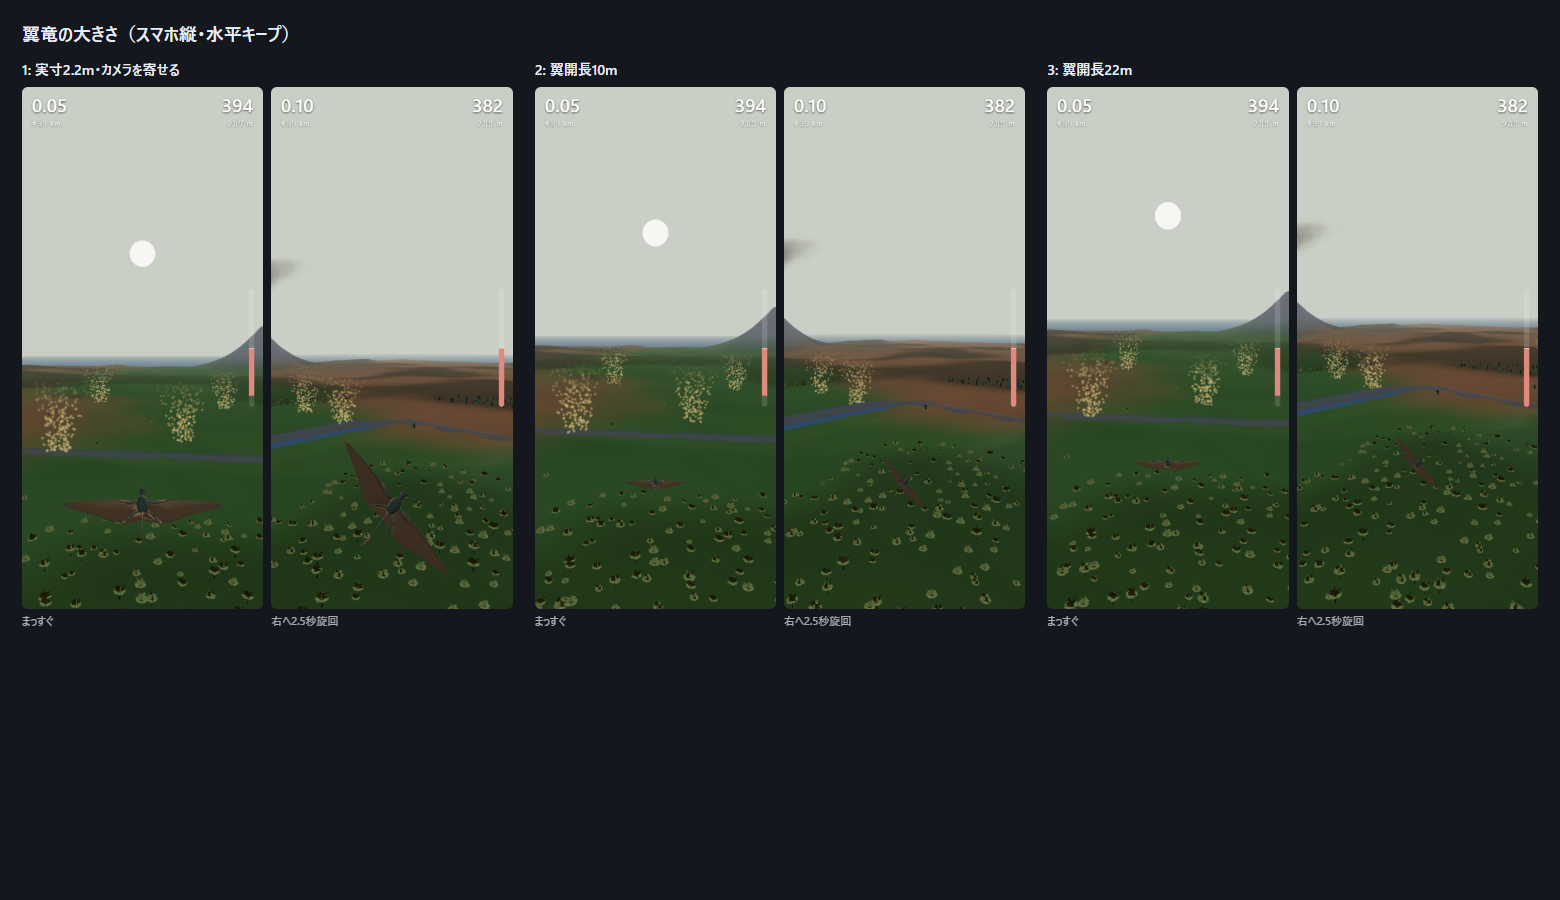
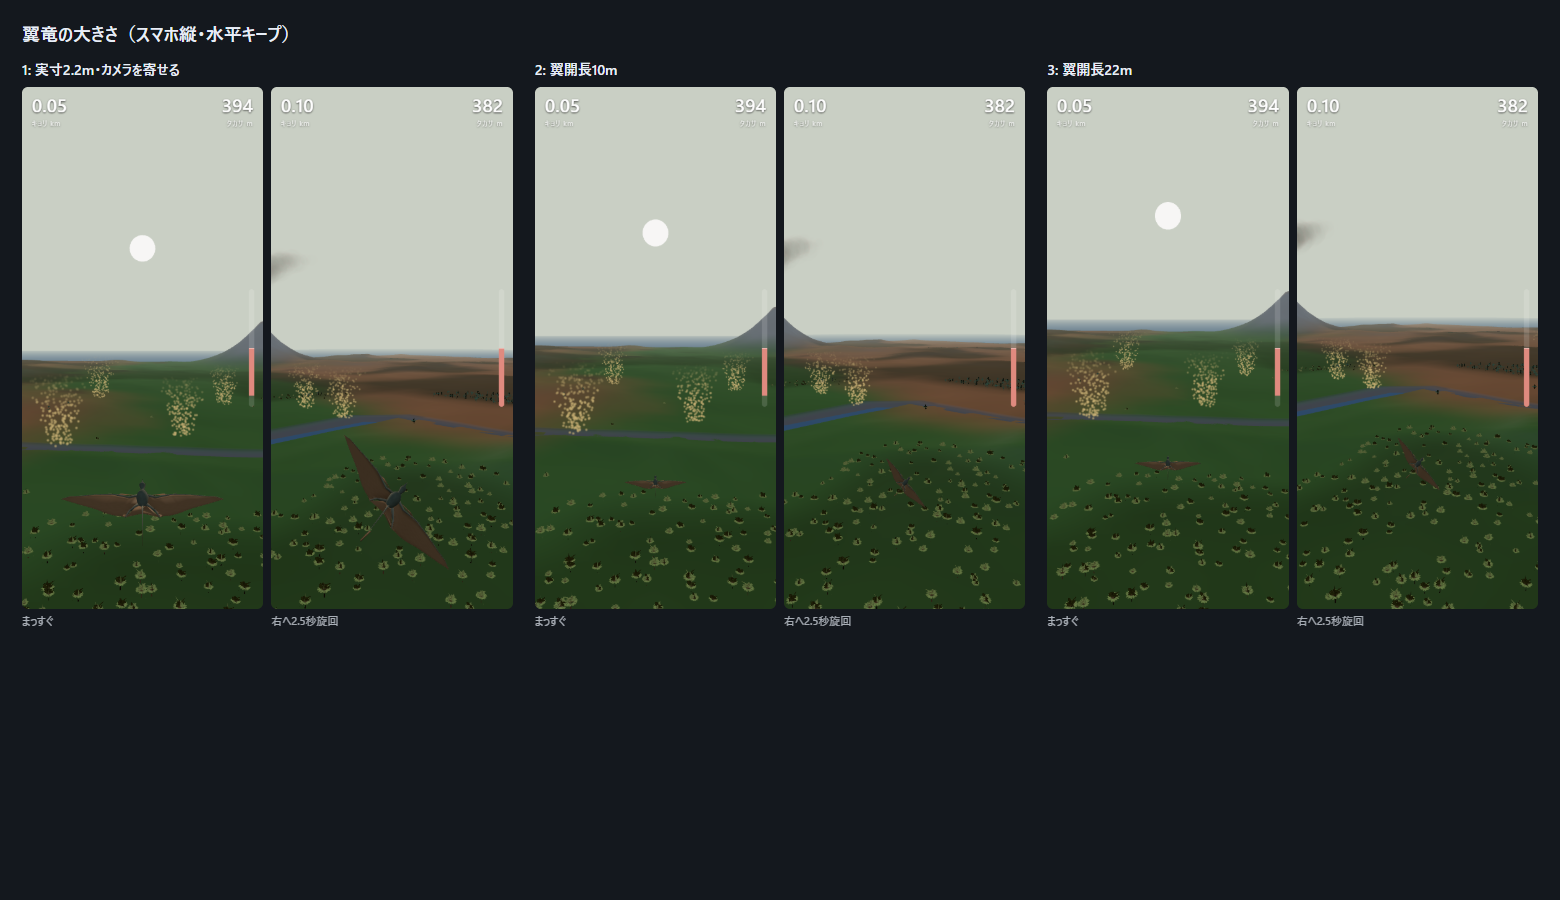
いきものの大きさを3.5倍に統一し、他の翼竜を飛ばした
所長「この世界のいきものは3.5倍に。自分も3.5倍にしてカメラ同じ見え方に」。

- CREATURE_SCALE=3.5 を world.js に置き、ステゴサウルスと翼竜で共有
- 自分の翼竜も3.5倍(翼開長7.7m)、カメラの距離も3.5倍(後ろ17.6m)。画面の翼の幅は237pxで変わらない
- 他の翼竜: 同じRH02を使い回し(追加の読み込み0・1体6,420三角形・最大10体)、
  強い上昇気流(6.5m/s以上)の中を旋回して雲底まで上がる。「回っている=上がる空気」の手がかり
- tools/check-flyers.mjs を追加(上昇気流の中にいるか・地面より上か・自分の見え方が変わっていないか)

diff --git a/src/scene.js b/src/scene.js
@@ -1,7 +1,7 @@
 import * as THREE from 'three';
 import { GLTFLoader } from 'three/examples/jsm/loaders/GLTFLoader.js';
 import { mergeGeometries } from 'three/examples/jsm/utils/BufferGeometryUtils.js';
-import { TUNE, VEG, Vegetation, HERD, Herds } from './world.js';
+import { TUNE, VEG, Vegetation, HERD, Herds, FLOCK, Flock } from './world.js';
 import { clone as cloneSkinned } from 'three/examples/jsm/utils/SkeletonUtils.js';
 
 // three.jsは右手系で、+X は画面の左に出る。
@@ -18,7 +18,7 @@ export const TRAMPLE = { radius: 150, strength: 0.85 };   // 700mまで近づか
 // 翼竜の見せる大きさ。RH02は実寸で翼開長2.2m。飛び方の計算は変えず、見た目とカメラの距離だけ変える
 //   scale: モデルの拡大率 / cam: カメラの距離の倍率
 export const SIZES = {
-  1: { name: '実寸2.2m・カメラを寄せる', scale: 1.0, cam: 0.042 },  // 所長が選んだ距離: 後ろ約5m(18m→10m→6m→5m)
+  1: { name: 'いきもの3.5倍',  scale: 3.5, cam: 0.147 },  // 翼開長7.7m。カメラも3.5倍(後ろ約17.6m)で、画面の見え方は同じ
   2: { name: '翼開長10m',               scale: 4.6, cam: 0.5 },
   3: { name: '翼開長22m(灰色の箱と同じ)', scale: 10,  cam: 1.0 },
 };
@@ -446,6 +446,51 @@ class Forest {
   }
 }
 
+// 他の翼竜。自分と同じモデルを使い回す(追加の読み込みなし)
+class Flyers {
+  constructor(terrain, field, scene) {
+    this.flock = new Flock(terrain, field); this.scene = scene;
+    this.proto = null; this.clip = null; this.pool = []; this.byId = new Map(); this.ready = false;
+  }
+  setModel(gltfScene, clips) {
+    this.proto = gltfScene; this.clip = clips.Glide_Loop; this.ready = true;
+  }
+  make() {
+    const group = new THREE.Group();
+    const model = cloneSkinned(this.proto);
+    model.rotation.y = Math.PI;                 // RH02は機首が-Z
+    model.position.y = -0.35 * FLOCK.scale;
+    model.scale.setScalar(FLOCK.scale);
+    model.traverse(o => { if (o.isMesh) o.frustumCulled = false; });
+    group.add(model);
+    const mixer = new THREE.AnimationMixer(model);
+    const act = mixer.clipAction(this.clip);
+    act.time = Math.random() * this.clip.duration;             // 羽ばたきをそろえない
+    act.play();
+    this.scene.add(group);
+    return { group, model, mixer, bird: null };
+  }
+  update(px, py, dt, time) {
+    if (!this.ready) return;
+    const list = this.flock.near(px, py, time);
+    const keep = new Set(list.map(b => b.id));
+    for (const e of this.pool) if (e.bird && !keep.has(e.bird.id)) { this.byId.delete(e.bird.id); e.bird = null; e.group.visible = false; }
+    for (const b of list) {
+      let e = this.byId.get(b.id);
+      if (!e) {
+        e = this.pool.find(p => !p.bird) || (this.pool.push(this.make()), this.pool[this.pool.length - 1]);
+        e.bird = b; this.byId.set(b.id, e);
+      }
+      e.bird = b;
+      e.group.visible = true;
+      e.group.position.set(SX * b.x, b.z, b.y);
+      e.group.rotation.set(0, -b.head, b.bank, 'YXZ');
+      e.mixer.update(dt);
+    }
+  }
+  count() { return this.pool.filter(p => p.bird).length; }
+}
+
 // ステゴサウルス(Astraのリグ版を tools/export-stego.py で書き出したもの)。近い個体だけ骨つきで描く
 class Stegos {
   constructor(terrain, scene) {
@@ -572,6 +617,7 @@ export class View {
     this.mixer = null; this.model = null; this.modelReady = false;
     this.forest = new Forest(terrain, this.scene);
     this.stegos = new Stegos(terrain, this.scene);
+    this.flyers = new Flyers(terrain, field, this.scene);
     this.plumes = new Plumes(terrain);
     this.scene.add(this.plumes.points);
     this.fog = new THREE.FogExp2(0xc9cfc4, 0.00009);   // 暖かく湿った霞
@@ -617,6 +663,7 @@ export class View {
           this.act.idle.reset().play();
         }
       });
+      this.flyers.setModel(m, this.clips);     // 同じモデルを他の翼竜にも使う
       this.modelReady = true;
     }, undefined, err => { console.error('翼竜の読み込みに失敗。灰色の箱のまま飛ぶ', err); });
   }
@@ -674,6 +721,7 @@ export class View {
     this.forest.update(g.x, g.y);
     this.plumes.update(g.x, g.y, dt);
     this.stegos.update(g.x, g.y, dt);
+    this.flyers.update(g.x, g.y, dt, g.time);
     this.dust.update(g.x, g.y, dt, sun);
     this.clouds.update(g.x, g.y, sun);
     // ---- 着地 ----

diff --git a/src/world.js b/src/world.js
@@ -297,6 +297,9 @@ export class Vegetation {
   }
 }
 
+// この世界のいきものの見せる大きさ。実寸だと飛行高度から数ピクセルにしかならないので、全部同じ倍率で大きくする
+export const CREATURE_SCALE = 3.5;
+
 // ---------- ステゴサウルスの群れ ----------
 // 見た目のためだけの生き物で、飛び方には影響しない。群れの場所は区画ごとに種つきで決まる。
 export const HERD = {
@@ -304,7 +307,7 @@ export const HERD = {
   chance: 0.9,        // 区画に群れがいる確率
   min: 5, max: 10,    // 群れの頭数(小さい群れは上空から見つけられなかった)
   spread: 95,         // 群れの広がり [m]
-  scale: 3.5,         // 見せる大きさ(全長7m -> 24.5m)。2.5倍でも350m先で25pxしかなく見つけられなかった
+  scale: CREATURE_SCALE,   // この世界のいきものは全部3.5倍(所長 2026-09-18)。全長7m -> 24.5m
   walk: 0.21,         // 歩きの動き1回ぶんの前進の速さ [m/s](AstraのWalkクリップの値)
   timeScale: 3.0,     // 歩きの動きの再生速度。前進の速さも同じ倍率にする(足が滑らないように)
   active: 1800,       // この距離の群れだけ動かす [m]
@@ -395,5 +398,46 @@ export class Herds {
       if (d <= rad) out.push({ a, d });
     }
     return out.sort((p, q) => p.d - q.d);
+  }
+}
+
+// ---------- 他の翼竜 ----------
+// 上昇気流の中を旋回する。実際の鳥と同じで「あそこで回っている = 上がる空気がある」の手がかりになる
+export const FLOCK = {
+  scale: CREATURE_SCALE,
+  show: 2400,         // この距離の上昇気流に出す [m]
+  minW: 6.5,          // これより強い上昇気流にだけ集まる [m/s]
+  radius: 55,         // 旋回の半径 [m]
+  turn: 0.22,         // 旋回の速さ [rad/s]
+  max: 10,            // 同時に出す数
+};
+
+export class Flock {
+  constructor(terrain, field) { this.t = terrain; this.f = field; }
+  // 時刻 time における、近くの翼竜たちの位置・向き・傾き
+  near(px, py, time) {
+    const out = [];
+    for (const c of this.f.around(px, py, FLOCK.show)) {
+      if (c.W < FLOCK.minW) continue;
+      const d = Math.hypot(c.x - px, c.y - py);
+      if (d > FLOCK.show) continue;
+      const seed = Math.abs(Math.floor(c.x * 7.31 + c.y * 3.17));
+      const n = 1 + (seed % 3);                                  // 1〜3羽
+      for (let i = 0; i < n; i++) {
+        const phase = ((seed * (i + 1) * 9301 + 49297) % 233280) / 233280;
+        const ang = time * FLOCK.turn * (1 + 0.15 * phase) + phase * Math.PI * 2;
+        const r = FLOCK.radius * (0.75 + 0.5 * phase);
+        // 上昇気流の中を、下から雲底へ上がっては戻るのを繰り返す
+        const u = (time * 0.012 + phase) % 1;
+        const z = c.gz + 70 + (c.top - c.gz - 70) * u;
+        out.push({
+          id: `${Math.round(c.x)},${Math.round(c.y)}:${i}`,
+          x: c.x + Math.cos(ang) * r, y: c.y + Math.sin(ang) * r, z,
+          head: -ang + Math.PI / 2,                              // 円の接線方向へ進む
+          bank: 0.5, d,
+        });
+      }
+    }
+    return out.sort((a, b) => a.d - b.d).slice(0, FLOCK.max);
   }
 }

diff --git a/src/main.js b/src/main.js
@@ -159,6 +159,17 @@ window.__slice = {
   stegoReady: () => view.stegos.ready,
   herdTune: o => Object.assign(HERD, o),
   herdScale: () => HERD.scale,
+  flyersReady: () => view.flyers.ready,
+  flyers: () => view.flyers.pool.filter(p => p.bird).map(p => {
+    const o = p.model.getObjectByName('Head'), t = p.model.getObjectByName('Tail04');
+    const v = n => { const q = new p.group.position.constructor(); n.getWorldPosition(q); return [q.x, q.y, q.z]; };
+    const ph = o && view.projectWorld(...v(o)), pt = t && view.projectWorld(...v(t));
+    return { id: p.bird.id, x: p.bird.x, y: p.bird.y, z: p.bird.z, agl: p.bird.z - terrain.height(p.bird.x, p.bird.y),
+             dist: Math.hypot(p.bird.x - glider.x, p.bird.y - glider.y),
+             lift: field.ridgeAt ? field.liftAt(p.bird.x, p.bird.y, p.bird.z, sunlight(glider.time)) : 0,
+             px: ph, sizePx: ph && pt ? Math.hypot(ph[0] - pt[0], ph[1] - pt[1]) : 0,
+             inFrame: !!ph && ph[0] > 0 && ph[0] < innerWidth && ph[1] > 0 && ph[1] < innerHeight };
+  }),
   // 検査用: 描いている個体の、骨の位置(世界座標)・状態・地面の高さ
   stegos: () => view.stegos.pool.filter(p => p.animal).map(p => {
     const w = name => { const o = p.model.getObjectByName(name); if (!o) return null; const v = o.getWorldPosition(new p.group.position.constructor()); return [v.x, v.y, v.z]; };

diff --git a/docs/FINDINGS.md b/docs/FINDINGS.md
@@ -301,3 +301,14 @@ Astraに山を頼む前に、使える寸法を決めるための試作。
 採った手: 描く距離3km、**踏み荒らしの地面を半径95→150mへ**、大きさ2.5→3.5倍(全長24.5m)。
 見え方: 1.5km=8px / 700m=17px(茶色い地面で気づく) / 350m=37px / 150m=86px。
 歩く速さも3.5倍(2.21m/s)にして足の滑りを防ぐ。
+
+## いきものの大きさを3.5倍に統一・他の翼竜（2026-09-18）
+
+所長「この世界のいきものは3.5倍にしよう。自分も3.5倍にしてカメラ同じ見え方になるように」。
+
+- `CREATURE_SCALE = 3.5` を world.js に置き、ステゴサウルスと翼竜が共有
+- 自分の翼竜: 大きさ1.0→3.5倍、カメラの距離も同じ倍率(後ろ5m→17.6m)。**画面の翼の幅は237pxで変わらない**
+  (見た目の大きさは 大きさ÷カメラ距離 で決まるので、同じ倍率で変えれば同じに見える)
+- **他の翼竜**: 同じRH02を使い回す(追加の読み込み0、1体6,420三角形、最大10体)。
+  強い上昇気流(6.5m/s以上)の中を旋回し、雲底まで上がっては戻る。実際の鳥と同じで「回っている=上がる空気」の手がかりになる
+- 検査(tools/check-flyers.mjs): 上昇気流の中にいる100%、地面より上、自分の見え方が変わっていないこと

diff --git a/README.md b/README.md
@@ -23,6 +23,7 @@ npm run dev     # http://localhost:8141
 - ところどころに**越えられない高い山**がある。回り込む
 - 翼竜は本物のモデル（RH02）、カメラは後ろ約5m。`?size=2|3` は比較用
 - 木と岩はAstraの氾濫原の原型（遠くは代わりの形）。ところどころの高い山は火山。`?notrees` で木なし
+- 強い上昇気流の中を**他の翼竜**が旋回している（回っている所には上がる空気がある）
 - 川の近くの開けた平地にステゴサウルスの群れ（Astraのリグ版、見せる大きさは2.5倍）。`?nodinos` で無し
 - 着地すると減速して翼を畳み、四足で降りる
 - 既定は丘のある世界。`?world=flat` で起伏なし、`?world=ridge` で尾根の風の試作
